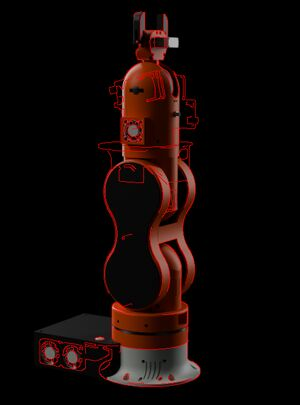
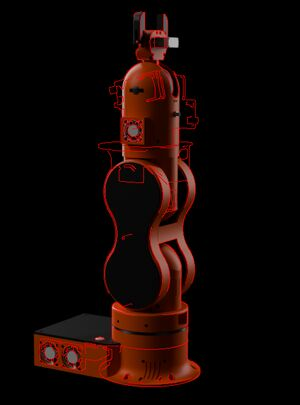
Task 0268: Thor side picture in the colours of Thor's other site renders (owner's wish) [full run]
Claude-Session: https://claude.ai/code/session_01LGPBd8BBTB4UgzKdhhnH3a

Changed region(s): [[0.09, 0.8, 0.69, 0.9778]]

diff --git a/tests/test_render_kit_redo.py b/tests/test_render_kit_redo.py
@@ -48,6 +48,7 @@ def test_redo_21_nov_in_models_ini():
     assert side["camera"] == {"at": [0.98078, -1.65913, 0.59383], "turn": [82.4523, 0.0, 32.0054]}
     assert side["lens"] == "50" and side["look"] == "DARK" and side["surroundings"] == "COLOR"
     assert not side["project"] and not side.get("pose")       # the arm as drawn, as in the first run
+    assert side["colours"] == by["thor"]["colours"]           # the colours of Thor's other pictures (owner 21 Nov)
     assert side["crop"] == pytest.approx((780 / 2400, 0.0, 1780 / 2400, 1.0))
     assert (general["width"], general["height"]) == ("2400", "1350")     # 1000 x 1350 px, as site/media/thor_side.jpg
     # the dropped views: no Seabed, no onshore stills; the onshore model stays in the kit, out of every run

diff --git a/tasks/0268-kit-redo-turbine-thor.md b/tasks/0268-kit-redo-turbine-thor.md
@@ -68,10 +68,71 @@ re-renders); new models from study 0113.
 
 ## Report (filled in by the chat that did the task)
 
-**Chat / date:**
+**Chat / date:** Claude Code on the web, 21 Nov 2026 (branch `claude/cool-ramanujan-lzs9ul`).
 
 **What changed:**
+- **Thor side picture** (`[thor_side]` in `models.ini`): found how `site/media/thor_side.jpg` was made – the owner's
+  first kit run (8 Nov, app 0.2.36, commit 73cafe5): Thor as drawn (no project, no pose), view LOW, lens 50, space
+  NORMAL, DARK look, studio colour, 2400 x 1350 Final, then cut by hand to 1000 x 1350. I rebuilt that day's STEP with
+  that day's converter (`tools/a4_to_step.py` at 73cafe5, 82 MB, 522 parts – the misplaced library parts included),
+  imported it with today's kit code, and took the LOW camera the app works out for it. It renders the old picture
+  with the cut at x = 780 px (mean difference 5 of 255 grey levels, the misplaced parts only). Stored exactly:
+  `camera_at = 0.98078, -1.65913, 0.59383` (m), `camera_turn = 82.4523, 0, 32.0054` (degrees), `lens = 50`,
+  `crop = 780, 0, 1000, 1350` → a 1000 x 1350 file named `thor_side.jpg`, credited as Thor.
+  Colours: exactly Thor's lines (`[thor]`), so the picture has the colours of Thor's other renders on the site –
+  orange base and control box, black top (owner 21 Nov, during the task; a first try that copied the old picture's
+  grey foot / dark box was dropped). A test keeps the two colour lists equal.
+- **The white ring under Thor's head in the old picture was itself a misplaced part** (a second copy of the base's
+  foot, 0.385 m up); it is gone, as are the brackets on the head.
+- **Offshore turbine**: views `Work boat, Whole turbine` (Seabed dropped). The cut-away came from the turbine sheet's
+  `scene.cutaway` (made by `tools/site_projects/iea15.py`, applied by `blender/sheet.apply_scene`): removed, and the
+  sheet no longer has the "Seabed" camera (`DROPPED`). The video's camera is "Whole turbine". Seabed and scour
+  protection stay in the model, unseen. `site/render_kit/projects/iea15_offshore.json` matches a fresh conversion
+  of the owner's STEP (checked here, `test_shipped_sheets_match_a_fresh_conversion`).
+- **Onshore turbine**: `views = none` (and video none): the model stays in the kit, a model with nothing to make is
+  left out of every run and not listed in the window.
+- **Run choices** (`make_site_pictures.py`): a section with `jobs =` and no `file =` is a row of the start window
+  that makes only the stills / clips it names; `ticked = yes` makes it the only row ticked when the window opens (and
+  the run of the console route). `[Redo 21 Nov]` = `thor_side, iea15_offshore: Whole turbine, iea15_offshore: video`,
+  about 31 min on the RTX 3090 by the kit's estimate (an expectation, not measured). A stopped run continues with only
+  what it had. The window change is 3 lines in `kit_window.ps1` (a row is ticked when found and, if the row says so,
+  ticked); reviewed independently (a Sonnet helper: OK, ASCII + CRLF kept, the CI layout check unaffected).
+- New lines in `models.ini` (explained at its top): `camera_at`, `camera_turn`, `crop`, `names`, `model`,
+  `views = none`, run choices. README.txt: the Redo row; CLAUDE.md section 3.
 
-**Tested and measured** (name the machine and the model):
+**Tested and measured** (4-core web machine, no graphics card):
+- Overlay proof, today's corrected Thor through the kit at 1200 x 675 (crop 500 x 675, Preview, processor, 24 s):
+  `tasks/img/0268_thor_side_overlay.jpg` (old | new | 50 % blend | difference) and `0268_thor_side_edges.jpg`
+  (the old picture's edges in red over the new one). Best fit of the old picture at offset 0 px; camera, framing,
+  light and background the same; differences only at the head (misplaced parts gone) and the colours of the base and control box (now as
+  Thor's other site pictures).
+- "Redo 21 Nov" end to end with the real `models.ini` (`--small`, processor): exactly `thor_side.jpg`,
+  `iea15_offshore_whole_turbine.jpg`, `iea15_offshore_loop.mp4` + poster, in 87 s. The saved turbine project has
+  `sea_cutaway` off; Whole turbine still and frames 1 / 7 / 13 of the clip at 960 x 540:
+  `tasks/img/0268_turbine_no_cutaway.jpg` – the sea whole, no box anywhere.
+- New `tests/test_render_kit_redo.py` (14 tests: the shipped choice, run choices and rows, plain problems, the window
+  rows + a continued run, a real-Blender run with a stored camera, a crop and own name); `test_render_kit.py`,
+  `test_site_turbine.py`, `test_site_turbine_standin.py` (Seabed in the stand-in, left out by the converter) pass
+  locally; the owner's STEP sheet check passes. GitHub: see below.
 
 **Open points / follow-up tasks:**
+- The kit zip goes onto the draft release `site-kit` by `site-kit.yml` after the merge (it runs on a push to `main`
+  that changes `site/render_kit/`).
+- Take-in after 0267 (the lead starts it): the result zip holds `thor_side.jpg`, `iea15_offshore_whole_turbine.jpg`,
+  `iea15_offshore_loop.mp4` (+ `_poster.jpg`) – the names `tests/test_site.py` REDO already expects.
+- The Work boat picture was not asked for again; it may show the edge of the old cut-away (not checked on the
+  owner's render).
+
+**Owner's steps (on your PC, RTX 3090):**
+1. On github.com (signed in) open the repository's **Releases**, find the draft **"Site kit - pictures and videos for
+   the web page"** and click **fresing_site_kit.zip** (the new one, dated today or later).
+2. Right-click the zip > **Extract All...** > **Extract** (into Downloads, next to your earlier kit folders).
+3. Close Fresing Render. Open the new folder **"Fresing site kit"**, double-click **"Make site pictures.bat"**.
+4. In the start window, the top row of the Models list is **"Redo 21 Nov - only Thor side, Whole turbine and the
+   turbine video"** – ticked, all others unticked. If it offers **"Continue the run of …"**, untick that. Click
+   **Start**. Expected: about half an hour (the window shows its own estimate).
+5. When it is done, the **output** folder opens with **site_pictures_<date>.zip** and the contact sheet in your
+   browser: you should see three items – Thor upright in the dark studio, the whole turbine at sea without any hole in
+   the water, and the turning rotor clip.
+6. On the same draft release click **Edit** (pencil), drag the zip onto "Attach binaries by dropping them here", wait,
+   click **Save draft** (not Publish). Tell the lead chat: "redo pictures uploaded".
